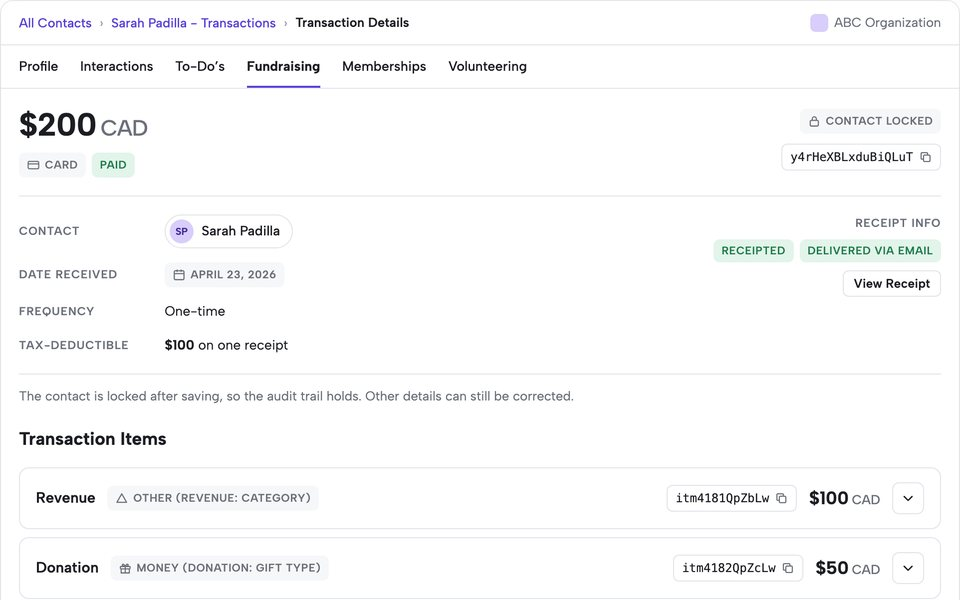
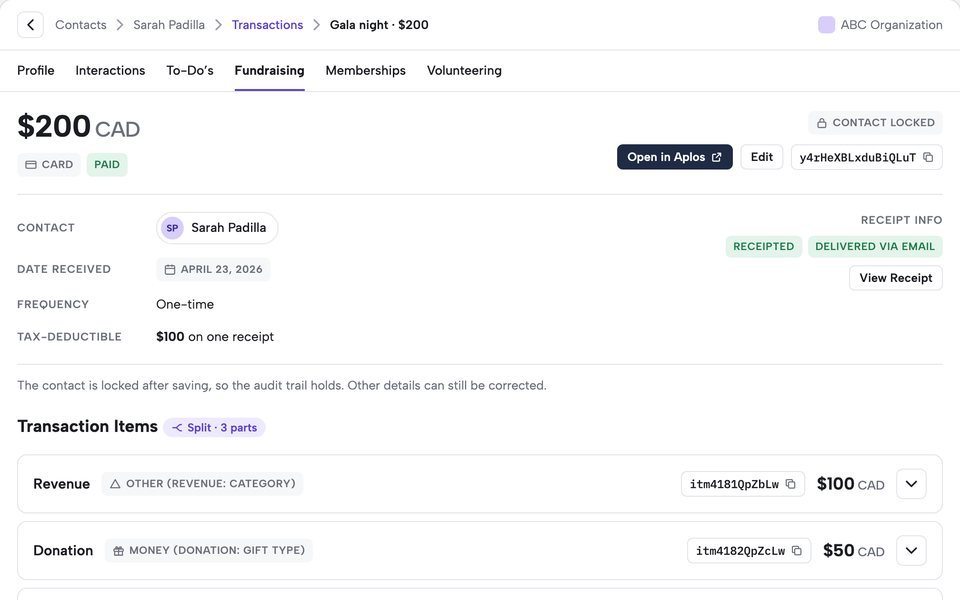
Study page: problem-to-solution version of the deck, with screens from the current prototype

diff --git a/study/index.html b/study/index.html
@@ -46,6 +46,7 @@ h1{font-size:28px;font-weight:600;margin:0 0 4px;letter-spacing:-.01em}.sub{colo
 <div class="chips" id="kind" role="group" aria-label="Type"><span class="lab">Type</span></div>
 <label class="sort">Sort<select id="sort"><option value="deck">Presenting order</option><option value="az">A to Z</option><option value="kind">By type</option></select></label>
 </div>
+<section class="folder" data-f="tws"><div class="fh"><h2>Transaction Logging Redesign, problem to solution</h2><span></span></div><div class="grid"></div></section>
 <section class="folder" data-f="tw"><div class="fh"><h2>Transaction Logging Redesign</h2><span></span></div><div class="grid"></div></section>
 <section class="folder" data-f="or"><div class="fh"><h2>Orchid design system</h2><span></span></div><div class="grid"></div></section>
 <section class="folder" data-f="tw7"><div class="fh"><h2>Transaction Logging Redesign, 7-slide version</h2><span></span></div><div class="grid"></div></section>
@@ -54,10 +55,10 @@ h1{font-size:28px;font-weight:600;margin:0 0 4px;letter-spacing:-.01em}.sub{colo
 <div class="view" role="dialog" aria-label="Viewer"><div class="stage"></div><div class="bar"><button type="button" data-p="prev">Prev</button><span aria-live="polite"></span><button type="button" data-p="next">Next</button><button type="button" data-p="exit">Close</button></div></div>
 <script>
 (function(){
-  var D={"items": {"tw": [{"kind": "Slides", "title": "Slides", "thumb": "img/cr/01.jpg", "deck": "cr"}, {"kind": "Prototype", "title": "Prototype", "thumb": "img/tw/04.jpg", "proto": true}, {"kind": "Slide", "title": "Problem", "img": "img/cr/03.jpg", "thumb": "img/cr/03.jpg"}, {"kind": "Slide", "title": "Research to design", "img": "img/cr/04.jpg", "thumb": "img/cr/04.jpg"}, {"kind": "Slide", "title": "New flow, start to finish", "img": "img/cr/06.webp", "thumb": "img/cr/06.jpg"}, {"kind": "Slide", "title": "Pop-up to full page", "img": "img/cr/07.jpg", "thumb": "img/cr/07.jpg"}, {"kind": "Slide", "title": "Details page", "img": "img/cr/08.jpg", "thumb": "img/cr/08.jpg"}, {"kind": "Slide", "title": "States", "img": "img/cr/09.jpg", "thumb": "img/cr/09.jpg"}, {"kind": "Slide", "title": "Design system", "img": "img/cr/10.jpg", "thumb": "img/cr/10.jpg"}, {"kind": "Slide", "title": "Impact", "img": "img/cr/11.jpg", "thumb": "img/cr/11.jpg"}, {"kind": "Slide", "title": "Cost", "img": "img/cr/13.jpg", "thumb": "img/cr/13.jpg"}, {"kind": "Slide", "title": "System map", "img": "img/cr/14.jpg", "thumb": "img/cr/14.jpg"}], "or": [{"kind": "Slides", "title": "Slides", "thumb": "img/or/01.jpg", "deck": "or"}, {"kind": "Image", "title": "Variation audit", "img": "img/orsrc/untitled-11.png"}, {"kind": "Image", "title": "Survey", "img": "img/orsrc/untitled-1.jpg"}, {"kind": "Image", "title": "Usage rules", "img": "img/orsrc/untitled-10.jpg"}, {"kind": "Image", "title": "Storybook", "img": "img/orsrc/untitled-9.png"}, {"kind": "Image", "title": "Chromatic", "img": "img/orsrc/untitled-8.png"}, {"kind": "Slide", "title": "Snowflake reviews", "img": "img/or/06.jpg"}, {"kind": "Slide", "title": "Results", "img": "img/or/07.jpg"}], "tw7": [{"kind": "Slides", "title": "Slides", "thumb": "img/tw/01.jpg", "deck": "tw"}, {"kind": "Slide", "title": "Problem", "img": "img/tw/02.jpg"}, {"kind": "Slide", "title": "Cost", "img": "img/tw/03.jpg"}, {"kind": "Slide", "title": "Details page", "img": "img/tw/05.jpg"}, {"kind": "Slide", "title": "Impact", "img": "img/tw/06.jpg"}, {"kind": "Slide", "title": "Research to design", "img": "img/tw/08.jpg"}, {"kind": "Slide", "title": "System map", "img": "img/tw/09.jpg"}]}, "decks": {"tw": [{"src": "img/tw/01.jpg", "cap": "1 / 7", "live": false}, {"src": "img/tw/02.jpg", "cap": "2 / 7", "live": false}, {"src": "img/tw/03.jpg", "cap": "3 / 7", "live": false}, {"src": "img/tw/04.jpg", "cap": "4 / 7", "live": true}, {"src": "img/tw/05.jpg", "cap": "5 / 7", "live": false}, {"src": "img/tw/06.jpg", "cap": "6 / 7", "live": false}, {"src": "img/tw/07.jpg", "cap": "7 / 7", "live": false}, {"src": "img/tw/08.jpg", "cap": "Appendix A1", "live": false}, {"src": "img/tw/09.jpg", "cap": "Appendix A2", "live": false}, {"src": "img/tw/10.jpg", "cap": "Appendix A3", "live": false}, {"src": "img/tw/11.jpg", "cap": "Appendix A4", "live": false}, {"src": "img/tw/12.jpg", "cap": "Appendix A5", "live": false}, {"src": "img/tw/13.jpg", "cap": "Appendix A6", "live": false}, {"src": "img/tw/14.jpg", "cap": "Appendix A7", "live": false}, {"src": "img/tw/15.jpg", "cap": "Appendix A8", "live": false}, {"src": "img/tw/16.jpg", "cap": "Appendix A9", "live": false}, {"src": "img/tw/17.jpg", "cap": "Appendix A10", "live": false}, {"src": "img/tw/18.jpg", "cap": "Appendix A11", "live": false}], "or": [{"src": "img/or/01.jpg", "cap": "1 / 7"}, {"src": "img/or/02.jpg", "cap": "2 / 7"}, {"src": "img/or/03.jpg", "cap": "3 / 7"}, {"src": "img/or/04.jpg", "cap": "4 / 7"}, {"src": "img/or/05.jpg", "cap": "5 / 7"}, {"src": "img/or/06.jpg", "cap": "6 / 7"}, {"src": "img/or/07.jpg", "cap": "7 / 7"}], "cr": [{"src": "img/cr/01.jpg", "cap": "1 / 12", "live": false}, {"src": "img/cr/02.jpg", "cap": "2 / 12", "live": false}, {"src": "img/cr/03.jpg", "cap": "3 / 12", "live": false}, {"src": "img/cr/04.jpg", "cap": "4 / 12", "live": false}, {"src": "img/cr/05.webp", "cap": "5 / 12", "live": false}, {"src": "img/cr/06.webp", "cap": "6 / 12", "live": false}, {"src": "img/cr/07.jpg", "cap": "7 / 12", "live": false}, {"src": "img/cr/08.jpg", "cap": "8 / 12", "live": false}, {"src": "", "cap": "Demo, optional", "live": true}, {"src": "img/cr/09.jpg", "cap": "9 / 12", "live": false}, {"src": "img/cr/10.jpg", "cap": "10 / 12", "live": false}, {"src": "img/cr/11.jpg", "cap": "11 / 12", "live": false}, {"src": "img/cr/12.jpg", "cap": "12 / 12", "live": false}, {"src": "img/cr/13.jpg", "cap": "Appendix A1", "live": false}, {"src": "img/cr/14.jpg", "cap": "Appendix A2", "live": false}, {"src": "img/cr/15.jpg", "cap": "Appendix A3", "live": false}, {"src": "img/cr/16.jpg", "cap": "Appendix A4", "live": false}, {"src": "img/cr/17.jpg", "cap": "Appendix A5", "live": false}, {"src": "img/cr/18.jpg", "cap": "Appendix A6", "live": false}, {"src": "img/cr/19.jpg", "cap": "Appendix A7", "live": false}, {"src": "img/cr/20.jpg", "cap": "Appendix A8", "live": false}, {"src": "img/cr/21.jpg", "cap": "Appendix A9", "live": false}, {"src": "img/cr/22.jpg", "cap": "Appendix A10", "live": false}]}};
+  var D={"items": {"tw": [{"kind": "Slides", "title": "Slides", "thumb": "img/cr/01.jpg", "deck": "cr"}, {"kind": "Prototype", "title": "Prototype", "thumb": "img/tw/04.jpg", "proto": true}, {"kind": "Slide", "title": "Problem", "img": "img/cr/03.jpg", "thumb": "img/cr/03.jpg"}, {"kind": "Slide", "title": "Research to design", "img": "img/cr/04.jpg", "thumb": "img/cr/04.jpg"}, {"kind": "Slide", "title": "New flow, start to finish", "img": "img/cr/06.webp", "thumb": "img/cr/06.jpg"}, {"kind": "Slide", "title": "Pop-up to full page", "img": "img/cr/07.jpg", "thumb": "img/cr/07.jpg"}, {"kind": "Slide", "title": "Details page", "img": "img/cr/08.jpg", "thumb": "img/cr/08.jpg"}, {"kind": "Slide", "title": "States", "img": "img/cr/09.jpg", "thumb": "img/cr/09.jpg"}, {"kind": "Slide", "title": "Design system", "img": "img/cr/10.jpg", "thumb": "img/cr/10.jpg"}, {"kind": "Slide", "title": "Impact", "img": "img/cr/11.jpg", "thumb": "img/cr/11.jpg"}, {"kind": "Slide", "title": "Cost", "img": "img/cr/13.jpg", "thumb": "img/cr/13.jpg"}, {"kind": "Slide", "title": "System map", "img": "img/cr/14.jpg", "thumb": "img/cr/14.jpg"}], "or": [{"kind": "Slides", "title": "Slides", "thumb": "img/or/01.jpg", "deck": "or"}, {"kind": "Image", "title": "Variation audit", "img": "img/orsrc/untitled-11.png"}, {"kind": "Image", "title": "Survey", "img": "img/orsrc/untitled-1.jpg"}, {"kind": "Image", "title": "Usage rules", "img": "img/orsrc/untitled-10.jpg"}, {"kind": "Image", "title": "Storybook", "img": "img/orsrc/untitled-9.png"}, {"kind": "Image", "title": "Chromatic", "img": "img/orsrc/untitled-8.png"}, {"kind": "Slide", "title": "Snowflake reviews", "img": "img/or/06.jpg"}, {"kind": "Slide", "title": "Results", "img": "img/or/07.jpg"}], "tw7": [{"kind": "Slides", "title": "Slides", "thumb": "img/tw/01.jpg", "deck": "tw"}, {"kind": "Slide", "title": "Problem", "img": "img/tw/02.jpg"}, {"kind": "Slide", "title": "Cost", "img": "img/tw/03.jpg"}, {"kind": "Slide", "title": "Details page", "img": "img/tw/05.jpg"}, {"kind": "Slide", "title": "Impact", "img": "img/tw/06.jpg"}, {"kind": "Slide", "title": "Research to design", "img": "img/tw/08.jpg"}, {"kind": "Slide", "title": "System map", "img": "img/tw/09.jpg"}], "tws": [{"kind": "Slides", "title": "Slides", "thumb": "img/cr2/01.jpg", "deck": "cr2"}, {"kind": "Prototype", "title": "Prototype", "thumb": "img/cr2/09.jpg", "proto": true}, {"kind": "Slide", "title": "Problem", "img": "img/cr2/02.jpg", "thumb": "img/cr2/02.jpg"}, {"kind": "Slide", "title": "Background", "img": "img/cr2/03.jpg", "thumb": "img/cr2/03.jpg"}, {"kind": "Slide", "title": "Challenge", "img": "img/cr2/04.jpg", "thumb": "img/cr2/04.jpg"}, {"kind": "Slide", "title": "Research to design", "img": "img/cr2/05.jpg", "thumb": "img/cr2/05.jpg"}, {"kind": "Slide", "title": "Solution: before and after", "img": "img/cr2/06.webp", "thumb": "img/cr2/06.jpg"}, {"kind": "Slide", "title": "New flow, start to finish", "img": "img/cr2/07.webp", "thumb": "img/cr2/07.jpg"}, {"kind": "Slide", "title": "Pop-up to full page", "img": "img/cr2/08.jpg", "thumb": "img/cr2/08.jpg"}, {"kind": "Slide", "title": "Details page", "img": "img/cr2/09.jpg", "thumb": "img/cr2/09.jpg"}, {"kind": "Slide", "title": "States", "img": "img/cr2/10.jpg", "thumb": "img/cr2/10.jpg"}, {"kind": "Slide", "title": "Design system", "img": "img/cr2/11.jpg", "thumb": "img/cr2/11.jpg"}, {"kind": "Slide", "title": "Impact", "img": "img/cr2/12.jpg", "thumb": "img/cr2/12.jpg"}, {"kind": "Slide", "title": "What I’d do differently", "img": "img/cr2/13.jpg", "thumb": "img/cr2/13.jpg"}, {"kind": "Slide", "title": "Cost", "img": "img/cr2/14.jpg", "thumb": "img/cr2/14.jpg"}, {"kind": "Slide", "title": "System map", "img": "img/cr2/15.jpg", "thumb": "img/cr2/15.jpg"}]}, "decks": {"tw": [{"src": "img/tw/01.jpg", "cap": "1 / 7", "live": false}, {"src": "img/tw/02.jpg", "cap": "2 / 7", "live": false}, {"src": "img/tw/03.jpg", "cap": "3 / 7", "live": false}, {"src": "img/tw/04.jpg", "cap": "4 / 7", "live": true}, {"src": "img/tw/05.jpg", "cap": "5 / 7", "live": false}, {"src": "img/tw/06.jpg", "cap": "6 / 7", "live": false}, {"src": "img/tw/07.jpg", "cap": "7 / 7", "live": false}, {"src": "img/tw/08.jpg", "cap": "Appendix A1", "live": false}, {"src": "img/tw/09.jpg", "cap": "Appendix A2", "live": false}, {"src": "img/tw/10.jpg", "cap": "Appendix A3", "live": false}, {"src": "img/tw/11.jpg", "cap": "Appendix A4", "live": false}, {"src": "img/tw/12.jpg", "cap": "Appendix A5", "live": false}, {"src": "img/tw/13.jpg", "cap": "Appendix A6", "live": false}, {"src": "img/tw/14.jpg", "cap": "Appendix A7", "live": false}, {"src": "img/tw/15.jpg", "cap": "Appendix A8", "live": false}, {"src": "img/tw/16.jpg", "cap": "Appendix A9", "live": false}, {"src": "img/tw/17.jpg", "cap": "Appendix A10", "live": false}, {"src": "img/tw/18.jpg", "cap": "Appendix A11", "live": false}], "or": [{"src": "img/or/01.jpg", "cap": "1 / 7"}, {"src": "img/or/02.jpg", "cap": "2 / 7"}, {"src": "img/or/03.jpg", "cap": "3 / 7"}, {"src": "img/or/04.jpg", "cap": "4 / 7"}, {"src": "img/or/05.jpg", "cap": "5 / 7"}, {"src": "img/or/06.jpg", "cap": "6 / 7"}, {"src": "img/or/07.jpg", "cap": "7 / 7"}], "cr": [{"src": "img/cr/01.jpg", "cap": "1 / 12", "live": false}, {"src": "img/cr/02.jpg", "cap": "2 / 12", "live": false}, {"src": "img/cr/03.jpg", "cap": "3 / 12", "live": false}, {"src": "img/cr/04.jpg", "cap": "4 / 12", "live": false}, {"src": "img/cr/05.webp", "cap": "5 / 12", "live": false}, {"src": "img/cr/06.webp", "cap": "6 / 12", "live": false}, {"src": "img/cr/07.jpg", "cap": "7 / 12", "live": false}, {"src": "img/cr/08.jpg", "cap": "8 / 12", "live": false}, {"src": "", "cap": "Demo, optional", "live": true}, {"src": "img/cr/09.jpg", "cap": "9 / 12", "live": false}, {"src": "img/cr/10.jpg", "cap": "10 / 12", "live": false}, {"src": "img/cr/11.jpg", "cap": "11 / 12", "live": false}, {"src": "img/cr/12.jpg", "cap": "12 / 12", "live": false}, {"src": "img/cr/13.jpg", "cap": "Appendix A1", "live": false}, {"src": "img/cr/14.jpg", "cap": "Appendix A2", "live": false}, {"src": "img/cr/15.jpg", "cap": "Appendix A3", "live": false}, {"src": "img/cr/16.jpg", "cap": "Appendix A4", "live": false}, {"src": "img/cr/17.jpg", "cap": "Appendix A5", "live": false}, {"src": "img/cr/18.jpg", "cap": "Appendix A6", "live": false}, {"src": "img/cr/19.jpg", "cap": "Appendix A7", "live": false}, {"src": "img/cr/20.jpg", "cap": "Appendix A8", "live": false}, {"src": "img/cr/21.jpg", "cap": "Appendix A9", "live": false}, {"src": "img/cr/22.jpg", "cap": "Appendix A10", "live": false}], "cr2": [{"src": "img/cr2/01.jpg", "cap": "1 / 13", "live": false}, {"src": "img/cr2/02.jpg", "cap": "2 / 13", "live": false}, {"src": "img/cr2/03.jpg", "cap": "3 / 13", "live": false}, {"src": "img/cr2/04.jpg", "cap": "4 / 13", "live": false}, {"src": "img/cr2/05.jpg", "cap": "5 / 13", "live": false}, {"src": "img/cr2/06.webp", "cap": "6 / 13", "live": false}, {"src": "img/cr2/07.webp", "cap": "7 / 13", "live": false}, {"src": "img/cr2/08.jpg", "cap": "8 / 13", "live": false}, {"src": "img/cr2/09.jpg", "cap": "9 / 13", "live": false}, {"src": "", "cap": "Demo, optional", "live": true}, {"src": "img/cr2/10.jpg", "cap": "10 / 13", "live": false}, {"src": "img/cr2/11.jpg", "cap": "11 / 13", "live": false}, {"src": "img/cr2/12.jpg", "cap": "12 / 13", "live": false}, {"src": "img/cr2/13.jpg", "cap": "13 / 13", "live": false}, {"src": "img/cr2/14.jpg", "cap": "Appendix A1", "live": false}, {"src": "img/cr2/15.jpg", "cap": "Appendix A2", "live": false}, {"src": "img/cr2/16.jpg", "cap": "Appendix A3", "live": false}, {"src": "img/cr2/17.jpg", "cap": "Appendix A4", "live": false}, {"src": "img/cr2/18.jpg", "cap": "Appendix A5", "live": false}, {"src": "img/cr2/19.jpg", "cap": "Appendix A6", "live": false}, {"src": "img/cr2/20.jpg", "cap": "Appendix A7", "live": false}, {"src": "img/cr2/21.jpg", "cap": "Appendix A8", "live": false}, {"src": "img/cr2/22.jpg", "cap": "Appendix A9", "live": false}, {"src": "img/cr2/23.jpg", "cap": "Appendix A10", "live": false}]}};
   var V=document.querySelector(".view"),stage=V.querySelector(".stage"),bar=V.querySelector(".bar"),count=bar.querySelector("span"),prev=bar.querySelector('[data-p=prev]'),next=bar.querySelector('[data-p=next]');
-  var seq=null,i=0,LIVE={"img/cr/04.jpg":"research.html"};
-  var FO=["tw","or","tw7"],SHORT={tw:"Transaction Logging",or:"Orchid",tw7:"Transaction Logging, 7 slides"};
+  var seq=null,i=0,LIVE={"img/cr/04.jpg":"research.html","img/cr2/05.jpg":"research.html"};
+  var FO=["tws","tw","or","tw7"],SHORT={tws:"Problem to solution",tw:"Transaction Logging",or:"Orchid",tw7:"Transaction Logging, 7 slides"};
   var KN={deck:"Decks",proto:"Prototype",slide:"Slides",image:"Images"},KO=["deck","proto","slide","image"];
   var st={proj:"all",kind:"all",q:"",sort:"deck"};
   function kindOf(it){return it.deck?"deck":it.proto?"proto":it.kind==="Image"?"image":"slide";}

diff --git a/study/research.html b/study/research.html
@@ -49,8 +49,8 @@ h1{font-size:clamp(20px,2.6vw,34px);font-weight:500;letter-spacing:-.01em;margin
       ["img/rs/b5.jpg","One pop-up, with the same fields for the whole payment.",OLD],
       ["img/rs/5.gif","The same $200 payment under Canada, US and Australia rules: the receipt changes with each country.","From the live prototype, sample data"]],
     ["People think “what was it” before “whose was it”","Details view puts the items first",
-      ["img/rs/b6.jpg","The old details page: one record, every field in a single grid.",OLD],
-      ["img/rs/6.jpg","The saved payment opens on its items: what each part was, then the rest.",REB]]
+      ["img/rs/b6.jpg","Each part was its own record in a pop-up, so no single page showed the whole payment.",OLD],
+      ["img/rs/6.jpg","The saved payment opens on its items: what each part was, then the rest.","From the live prototype, sample data"]]
   ];
   var rows=document.getElementById("rows"),peek=document.getElementById("peek"),cur=-1,pinned=false;
   R.forEach(function(r,i){
